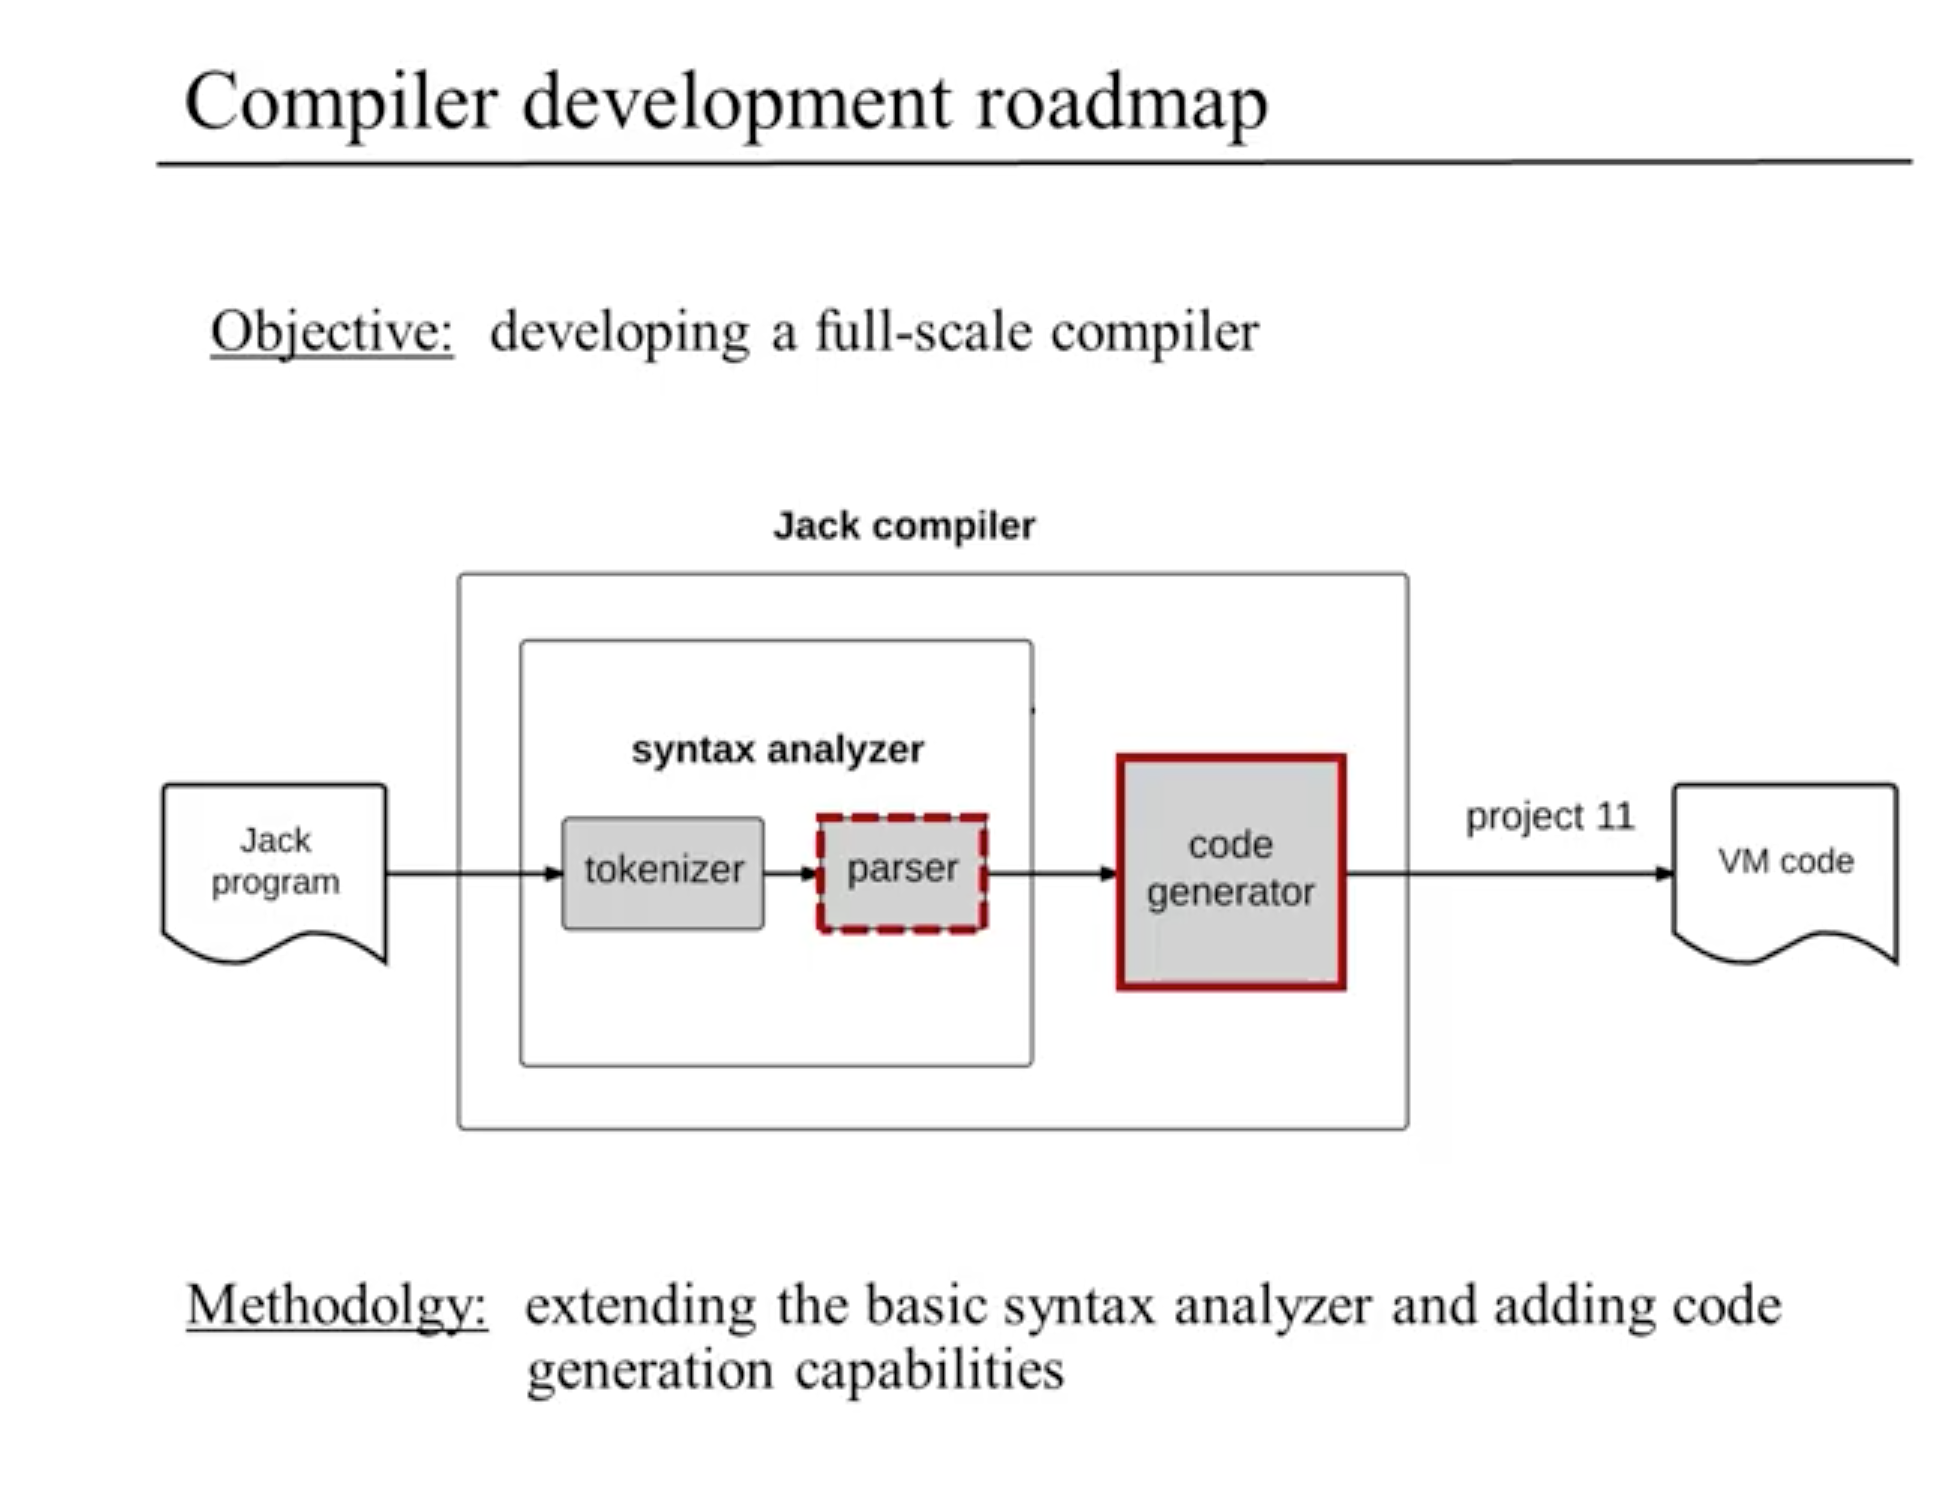
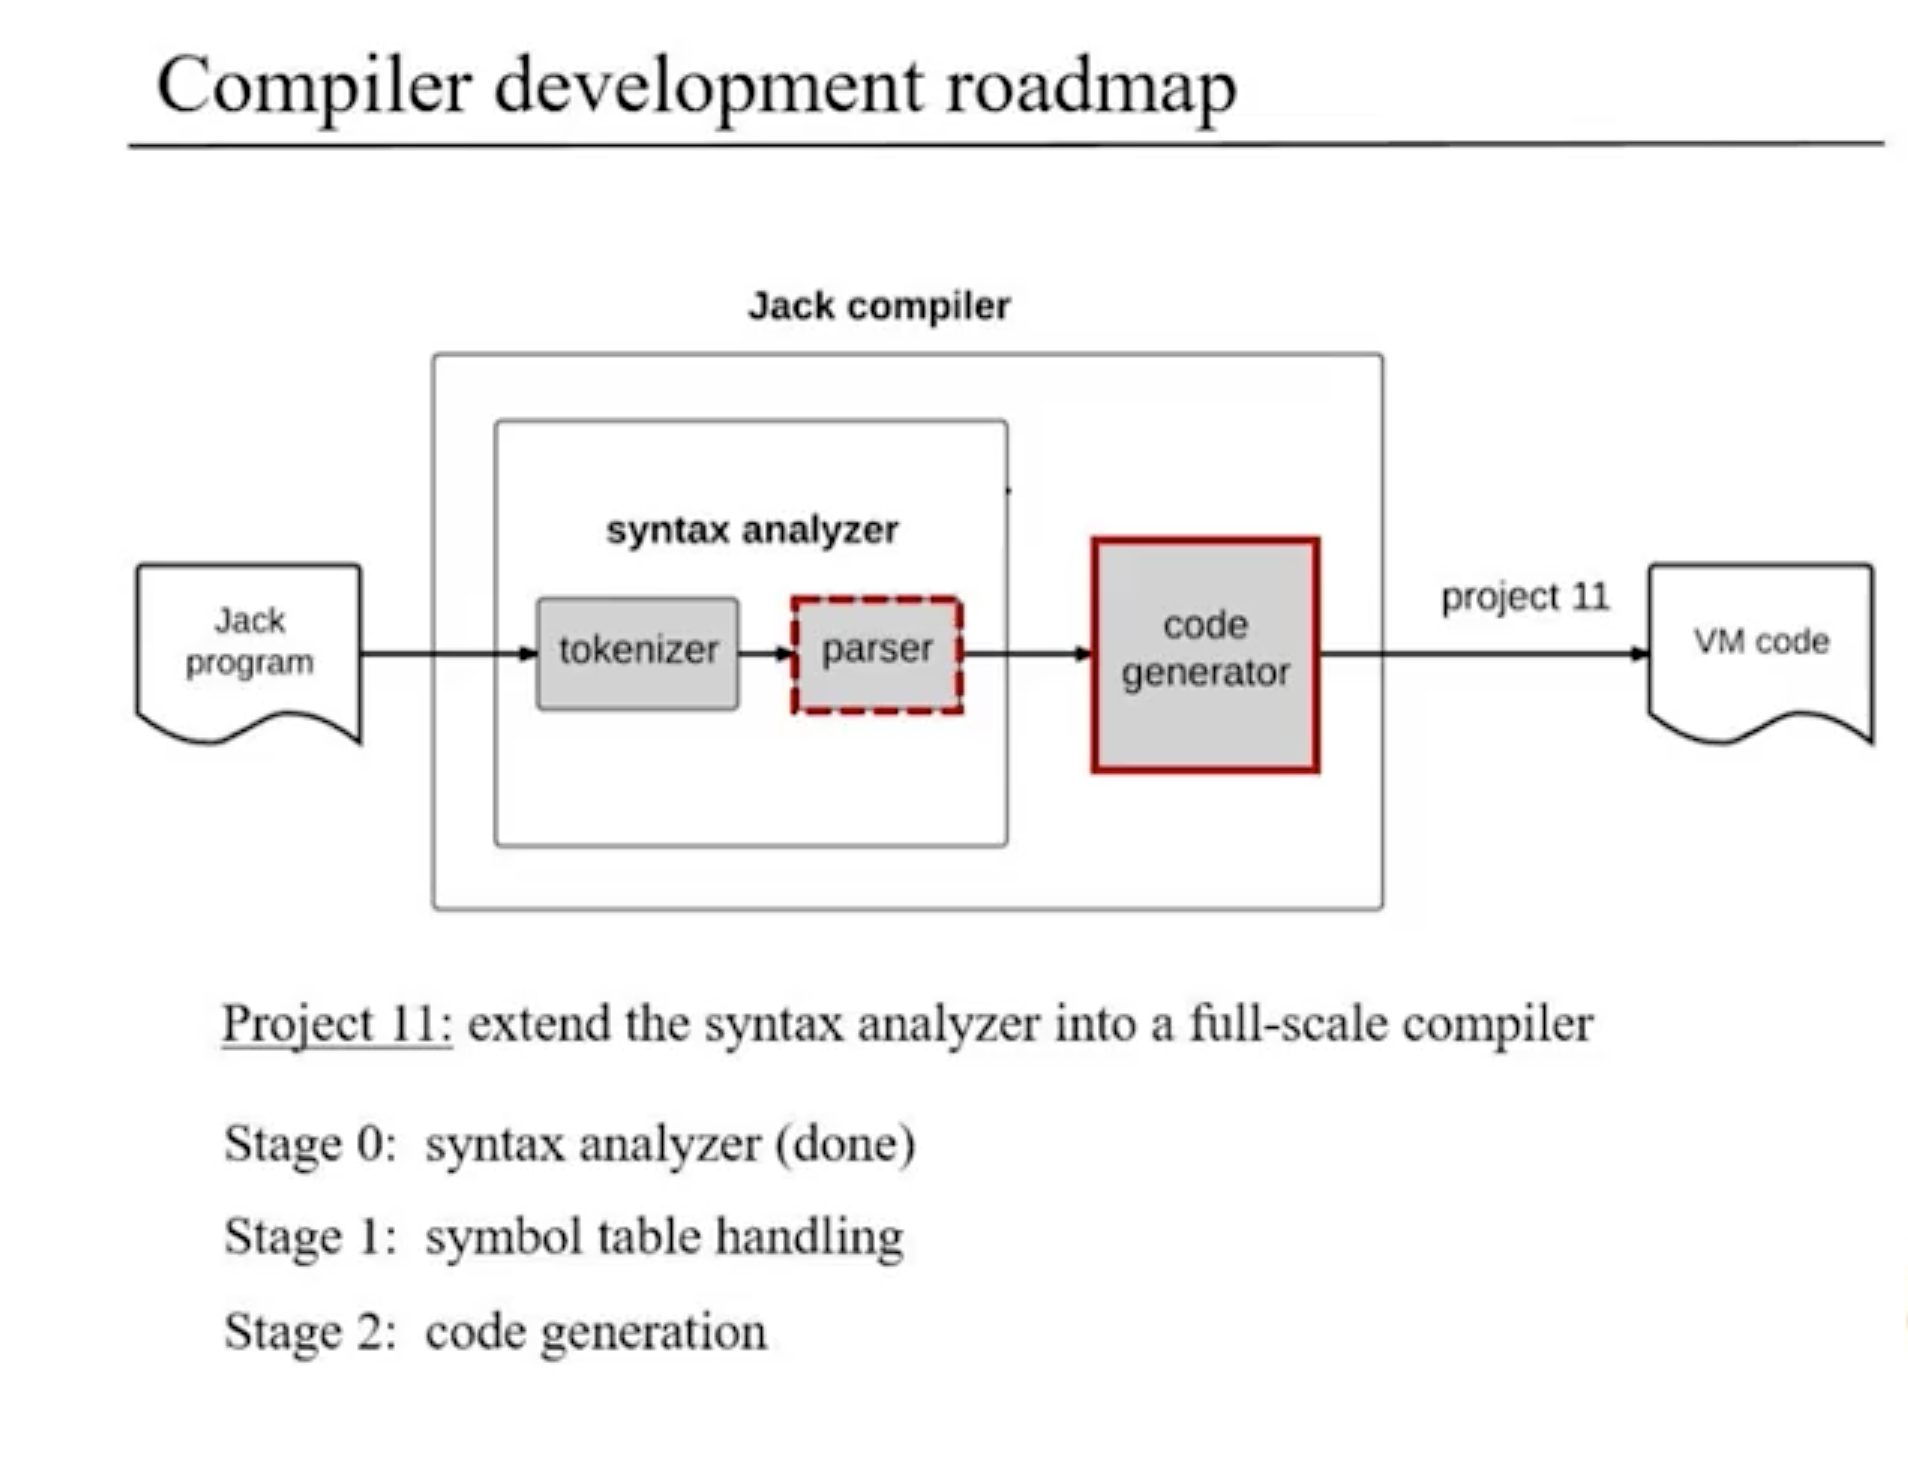
subroutine symbol table

Changed region(s): [[0.0618, 0.1875, 0.9895, 0.9375], [0.0618, 0.0312, 0.9895, 0.125]]

diff --git a/projects/11/source/CompilationEngine.py b/projects/11/source/CompilationEngine.py
@@ -122,9 +122,18 @@ class CompilationEngine():
         self._write_current_terminal_token()
         self._write_current_outer_tag(body="parameterList")
 
+        ### symbol table
+        kind = 'argument'
+
         while self._not_terminal_token_for(position='next', keyword_token='parameter_list'):
             self.tokenizer.advance()
             self._write_current_terminal_token()
+            # symbol table
+            if self.tokenizer.token_type_of(self.tokenizer.next_token) == "IDENTIFIER":
+                # get type
+                symbol_type = self.tokenizer.current_token
+                name = self.tokenizer.next_token
+                self.subroutine_symbol_table.define(name=name, kind=kind, symbol_type=symbol_type)
 
         self._write_current_outer_tag(body="/parameterList")
         # advance to closing )
@@ -162,9 +171,25 @@ class CompilationEngine():
         self._write_current_outer_tag(body="varDec")
         self._write_current_terminal_token()
 
+        ### symbol table
+        # reset subroutine symbols
+        self.subroutine_symbol_table.reset()
+        # all var decs are local variables
+        kind = 'local'
+
+        # get symbol type
+        self.tokenizer.advance()
+        self._write_current_terminal_token()
+        symbol_type = self.tokenizer.keyword()
+
+        # get all identifiers
         while self._not_terminal_token_for('var_dec'):
             self.tokenizer.advance()
             self._write_current_terminal_token()
+            if self.tokenizer.identifier():
+                # add symbol to class
+                name = self.tokenizer.identifier()
+                self.subroutine_symbol_table.define(name=name, kind=kind, symbol_type=symbol_type)
 
         self._write_current_outer_tag(body="/varDec")
 
@@ -440,14 +465,14 @@ class CompilationEngine():
 
     def _write_current_terminal_token(self):
         # conform to expected xml
-        if self.tokenizer.current_token_type() == "STRING_CONST":
+        if self.tokenizer.token_type_of(self.tokenizer.current_token) == "STRING_CONST":
             tag_name = "stringConstant"
-        elif self.tokenizer.current_token_type() == "INT_CONST":
+        elif self.tokenizer.token_type_of(self.tokenizer.current_token) == "INT_CONST":
             tag_name = "integerConstant"
         else:
-            tag_name = self.tokenizer.current_token_type().lower()
+            tag_name = self.tokenizer.token_type_of(self.tokenizer.current_token).lower()
 
-        if self.tokenizer.current_token_type() == "STRING_CONST":
+        if self.tokenizer.token_type_of(self.tokenizer.current_token) == "STRING_CONST":
             value = self.tokenizer.current_token.replace("\"", "")
         else:
             value = self.tokenizer.current_token
@@ -461,7 +486,7 @@ class CompilationEngine():
         )
 
     def _terminal_token_type(self):
-        return self.tokenizer.current_token_type() in self.TERMINAL_TOKEN_TYPES
+        return self.tokenizer.token_type_of(self.tokenizer.current_token) in self.TERMINAL_TOKEN_TYPES
 
     def _terminal_keyword(self):
         return self.tokenizer.current_token in self.TERMINAL_KEYWORDS

diff --git a/projects/11/source/JackTokenizer.py b/projects/11/source/JackTokenizer.py
@@ -126,24 +126,24 @@ class JackTokenizer():
         else:
             return False
 
-    def current_token_type(self):
-        if self.current_token[0] == "\"":
+    def token_type_of(self, token):
+        if token[0] == "\"":
             return "STRING_CONST"
-        elif self.current_token in self.KEYWORDS:
+        elif token in self.KEYWORDS:
             return "KEYWORD"
-        elif self.current_token.isnumeric():
+        elif token.isnumeric():
             return "INT_CONST"
-        elif self.current_token.isalnum():
+        elif token.isalnum():
             return "IDENTIFIER"
         else:
             return "SYMBOL"
 
     def keyword(self):
-        if self.current_token_type() == "KEYWORD":
+        if self.token_type_of(self.current_token) == "KEYWORD":
             return self.current_token
 
     def identifier(self):
-        if self.current_token_type() == "IDENTIFIER":
+        if self.token_type_of(self.current_token) == "IDENTIFIER":
             return self.current_token
 
     def _is_alnum_or_underscore(self, char):

diff --git a/projects/11/README.md b/projects/11/README.md
@@ -82,6 +82,7 @@
 ![SpecialOSServices](./images/SpecialOSServices.png)
 
 ### Completing the Compiler
+![CompilerDevelopmentRoadmap](./images/CompilerDevelopmentRoadmap.png)
 * Main Classes
   * JackCompiler
   * JackTokenizer
